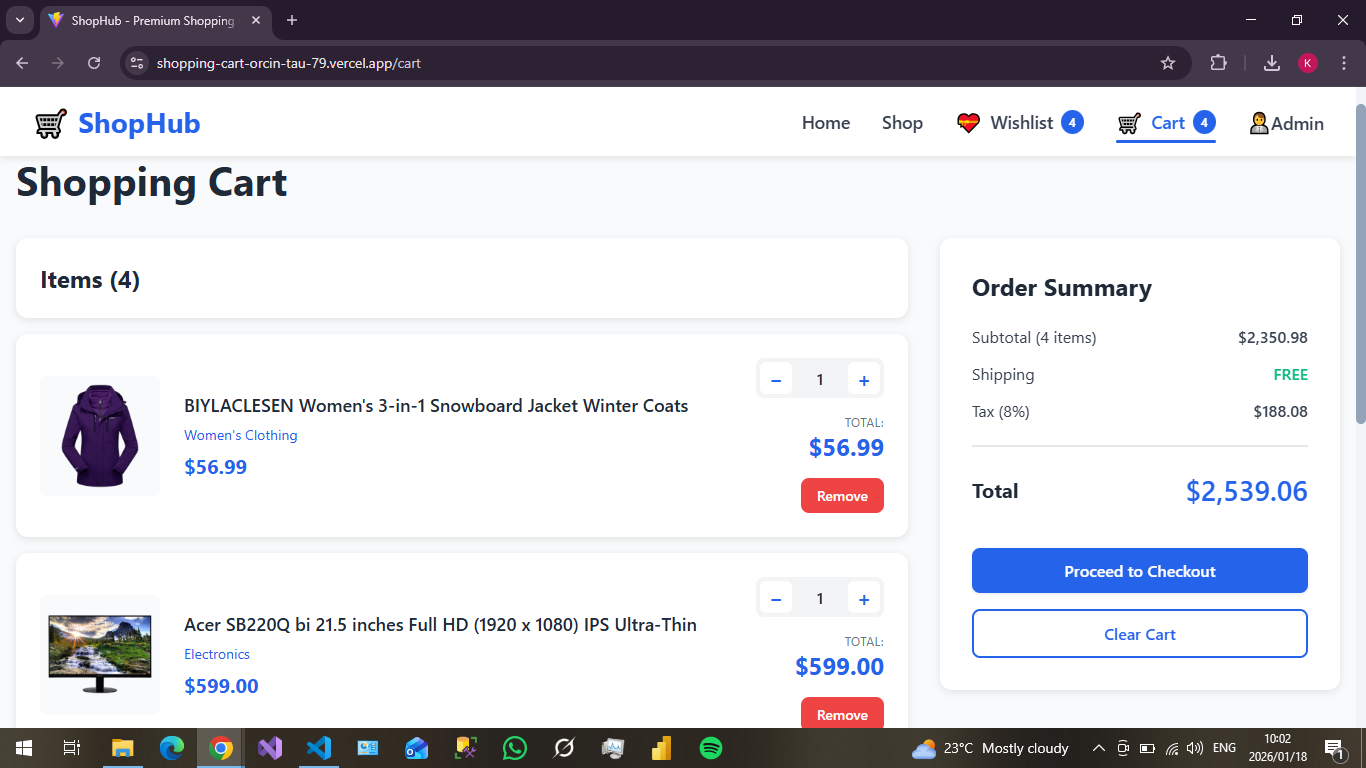
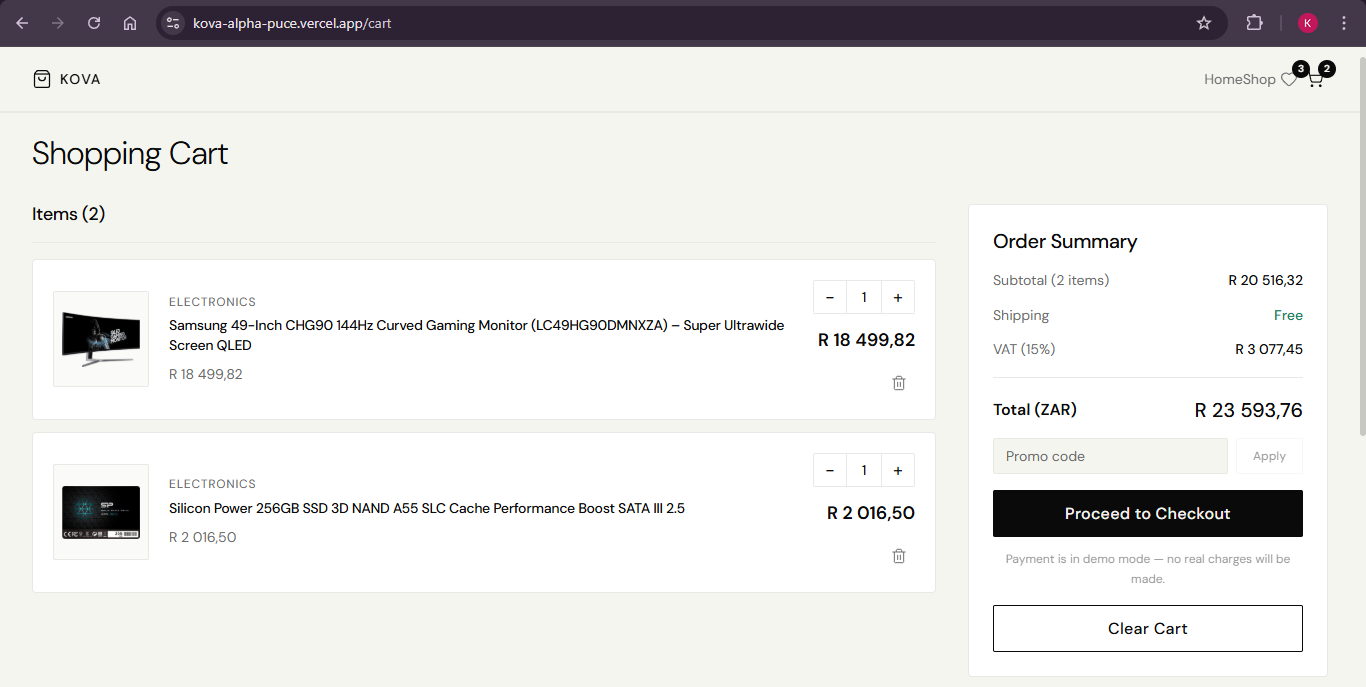
update live demo and repo URLs

diff --git a/README.md b/README.md
@@ -2,7 +2,7 @@
 
 A production-grade e-commerce storefront built with React 18, TypeScript, and Zustand. Features a full shopping experience — product browsing, cart, wishlist, Paystack checkout, and an admin dashboard — styled with an editorial Open Fashion aesthetic.
 
-**Live Demo:** [kova.vercel.app](https://shopping-cart-orcin-tau-79.vercel.app/)
+**Live Demo:** [kova-alpha-puce.vercel.app](https://kova-alpha-puce.vercel.app/)
 
 ---
 
@@ -68,7 +68,7 @@ A production-grade e-commerce storefront built with React 18, TypeScript, and Zu
 ### Installation
 
 ```bash
-git clone https://github.com/dev-k99/Shopping-Cart
+git clone https://github.com/dev-k99/Kova
 cd shopping-cart
 npm install
 ```